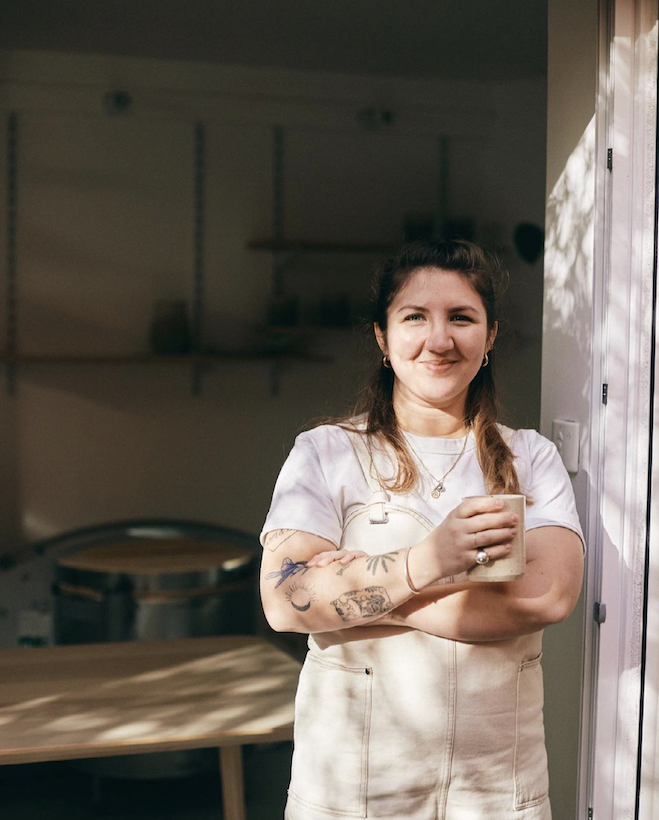
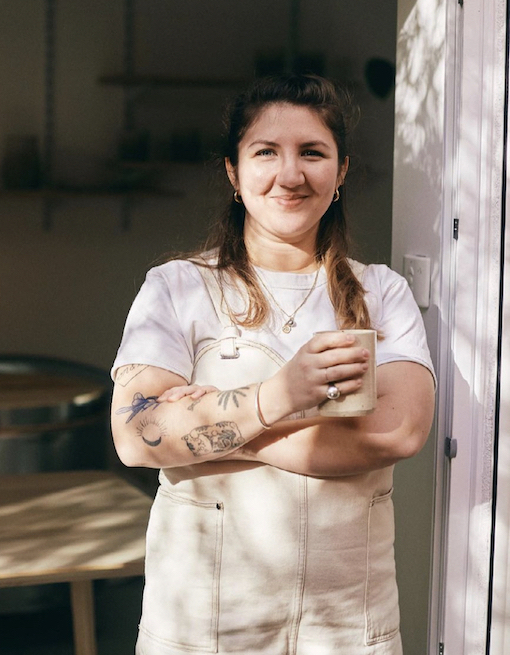
feat: some updates

diff --git a/src/components/TestimonialsSection.vue b/src/components/TestimonialsSection.vue
@@ -2,13 +2,14 @@
   <div class="bg-gray-100">
     <div class="mx-auto py-12 px-4 max-w-7xl sm:px-6 lg:px-8 lg:py-24">
       <div class="space-y-12">
-        <h2 class="text-3xl font-extrabold tracking-tight sm:text-4xl">Témoignages mamas loma club</h2>
+        <h2 class="text-3xl font-extrabold tracking-tight sm:text-4xl">Témoignages</h2>
 
         <ul role="list" class="space-y-12 lg:grid lg:grid-cols-2 lg:items-start lg:gap-x-8 lg:gap-y-12 lg:space-y-0">
           <li class="group" v-for="person in people" :key="person.name">
             <div class="space-y-4 sm:grid sm:grid-cols-3 sm:gap-6 sm:space-y-0 lg:gap-8">
-              <div class="h-0 aspect-w-3 aspect-h-2 rounded-lg bg-creme overflow-hidden sm:aspect-w-3 sm:aspect-h-4">
-                <img class="object-cover object-top shadow-lg transition duration-500 grayscale mix-blend-multiply sm:object-center group-hover:scale-110" :src="person.imageUrl" :alt="'Mama ' + person.name" />
+              <div class="relative h-0 aspect-w-3 aspect-h-2 rounded-lg shadow-lg overflow-hidden sm:aspect-w-3 sm:aspect-h-4">
+                <img class="object-cover object-top transition duration-500 grayscale sm:object-center group-hover:scale-110" :src="person.imageUrl" :alt="'Mama ' + person.name" />
+                <div class="absolute inset-0 bg-creme mix-blend-multiply opacity-40"></div>
               </div>
               <div class="sm:col-span-2">
                 <div class="space-y-4">

diff --git a/src/components/FAQSection.vue b/src/components/FAQSection.vue
@@ -39,11 +39,11 @@ const faqs = [
   },
   {
       question: 'Comment s’inscrit-on ?',
-      answer: 'Pour s’inscrire à une session du Loma Club il faut d’abord être membre.<br>Une fois membre, vous avez un code qui vous permet d’accéder librement au planning des sessions et de choisir celle(s) qui vous plait.'
+      answer: 'Pour s’inscrire à une session du Loma Club il faut d’abord être membre.<br>Après avoir rempli le formulaire d’inscription vous recevez vos identifiants de membre sous 24h à 48h.<br>Vos identifiants vous permettent d’accéder librement au planning des sessions et vous pouvez ensuite sélectionner la ou les session(s) de votre choix.'
   },
   {
       question: 'Combien ça coûte ?',
-      answer: 'Chaque session du Loma Club est au prix de 22€.'
+      answer: 'Chaque session du Loma Club est au prix de 23€.'
   },
   {
     question: 'Les conditions d’adhésion au Loma Club',
